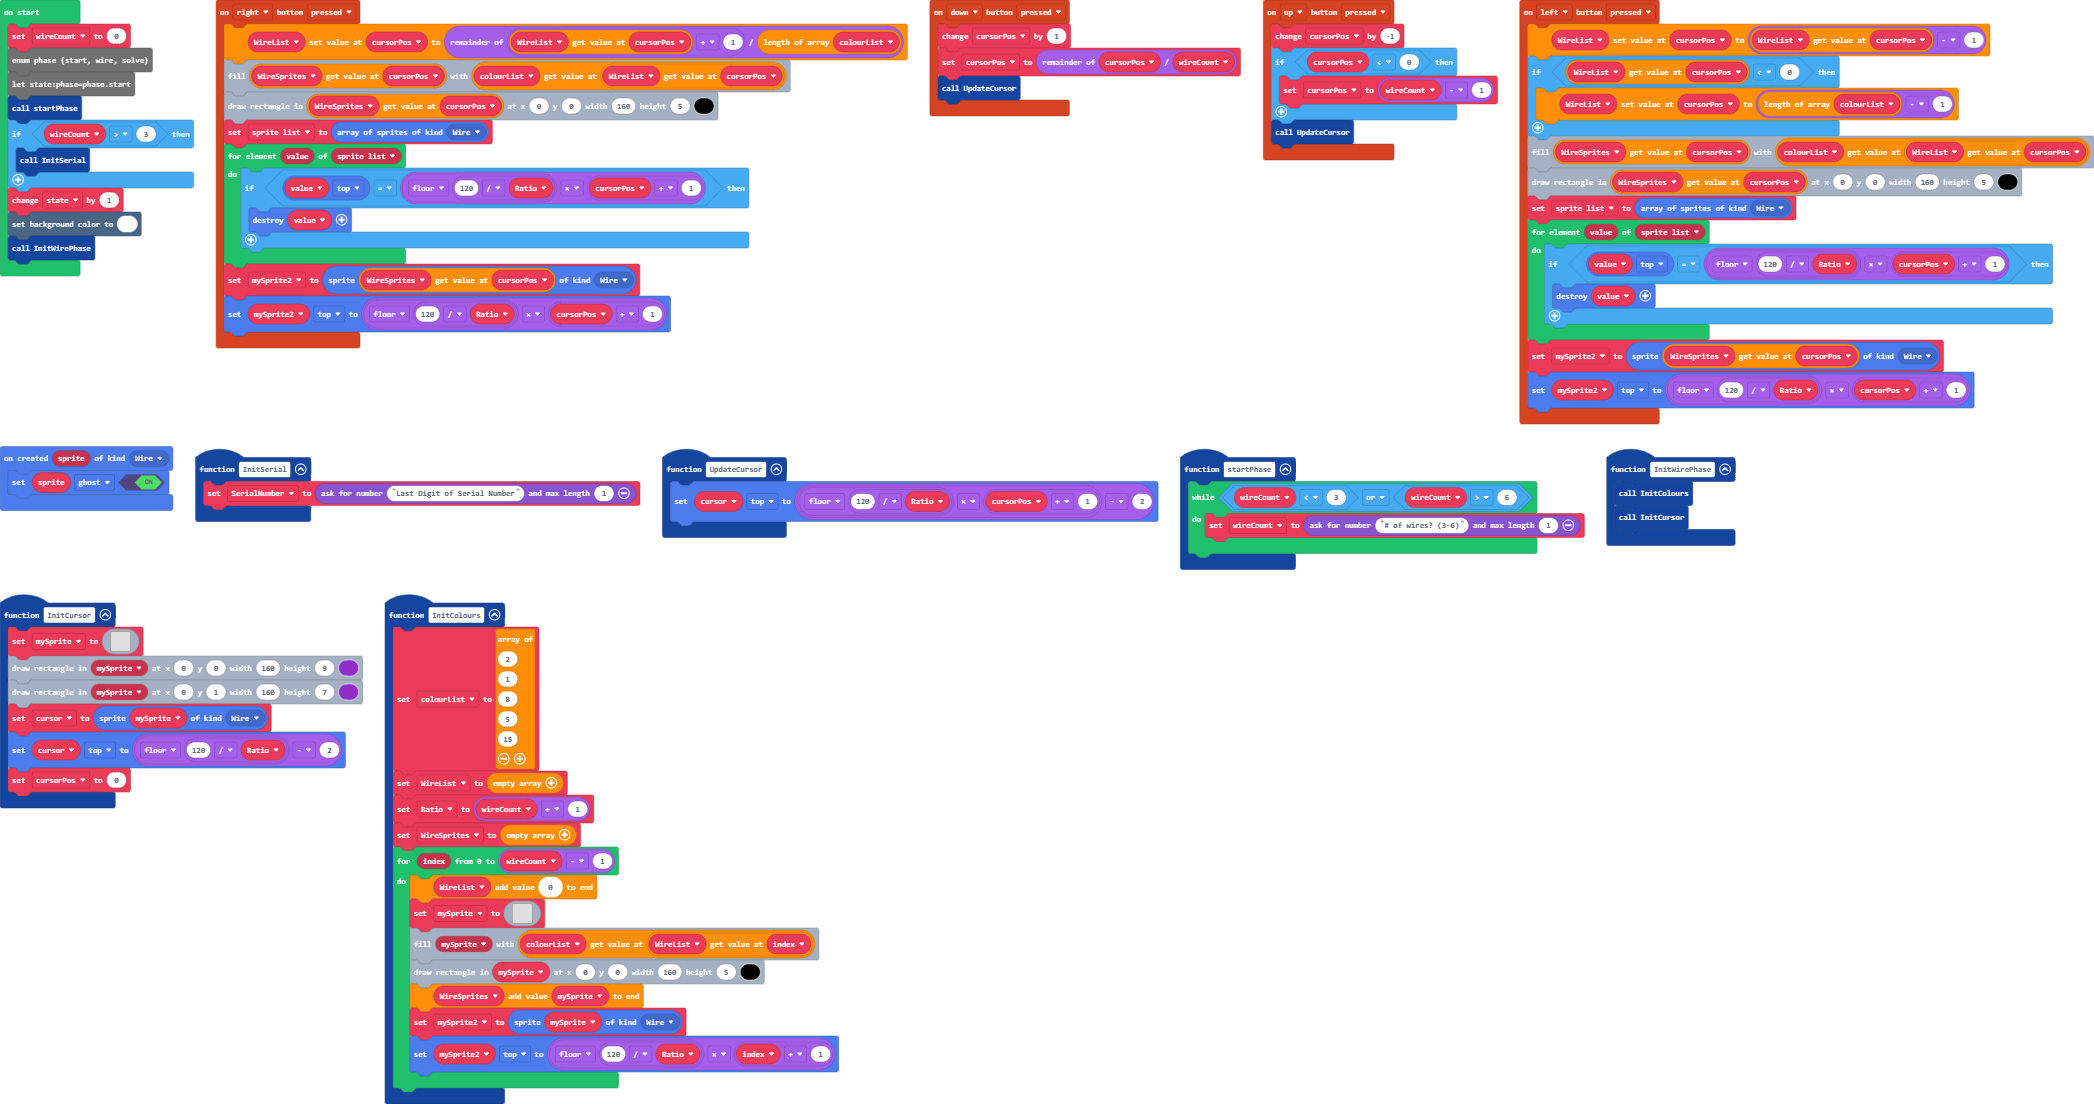
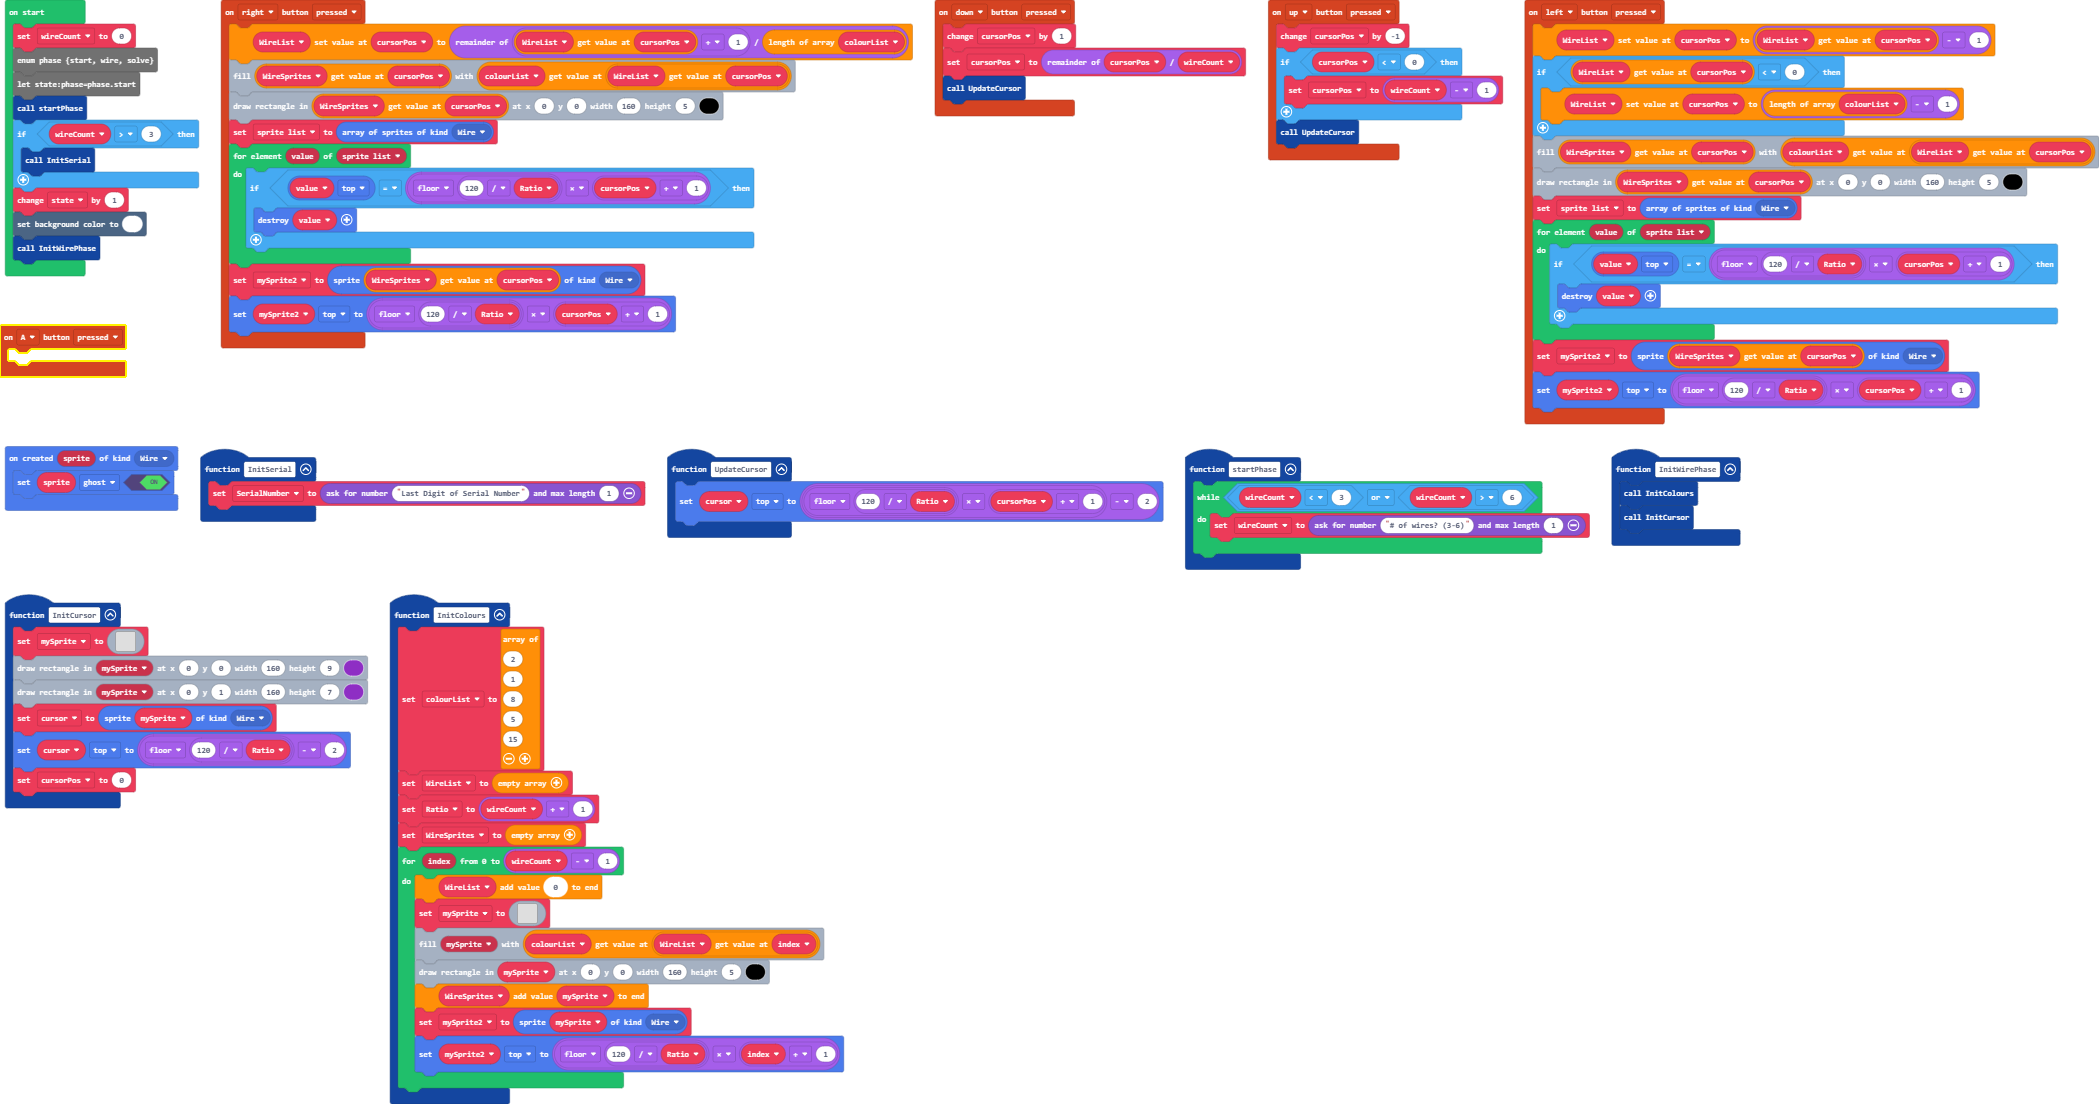
Add A button press

diff --git a/main.ts b/main.ts
@@ -16,6 +16,9 @@ function startPhase () {
         wireCount = game.askForNumber("# of wires? (3-6)", 1)
     }
 }
+controller.A.onEvent(ControllerButtonEvent.Pressed, function () {
+	
+})
 function InitSerial () {
     SerialNumber = game.askForNumber("Last Digit of Serial Number", 1)
 }
